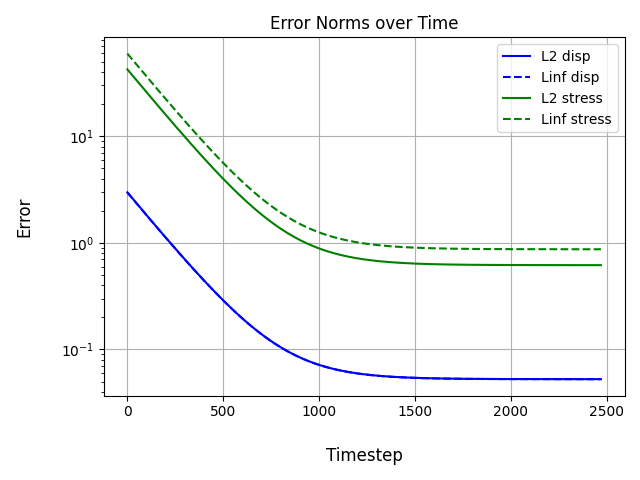
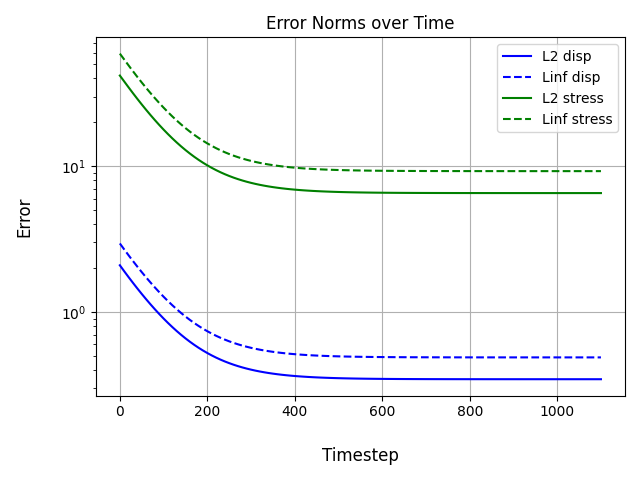
new dt experiemnt with more complicated u

diff --git a/numerical_experiments/dt/dt_experiment.py b/numerical_experiments/dt/dt_experiment.py
@@ -70,8 +70,8 @@ if __name__ == "__main__":
 
     # get force load
     x, y = sympy.symbols("x y")
-    manufactured_u = 3*sympy.cos(6*sympy.pi*x) #+ 3
-    manufactured_v = 3*sympy.cos(6*sympy.pi*y) #+ 3
+    manufactured_u = 3*sympy.cos(6*sympy.pi*x)*sympy.sin(6*sympy.pi*y)
+    manufactured_v = 3*sympy.cos(6*sympy.pi*y)*sympy.sin(6*sympy.pi*x)
     expected_displacement = np.array([
         utils.get_function_on_grid(manufactured_u, x, y, dx, grid),
         utils.get_function_on_grid(manufactured_v, x, y, dx, grid),
